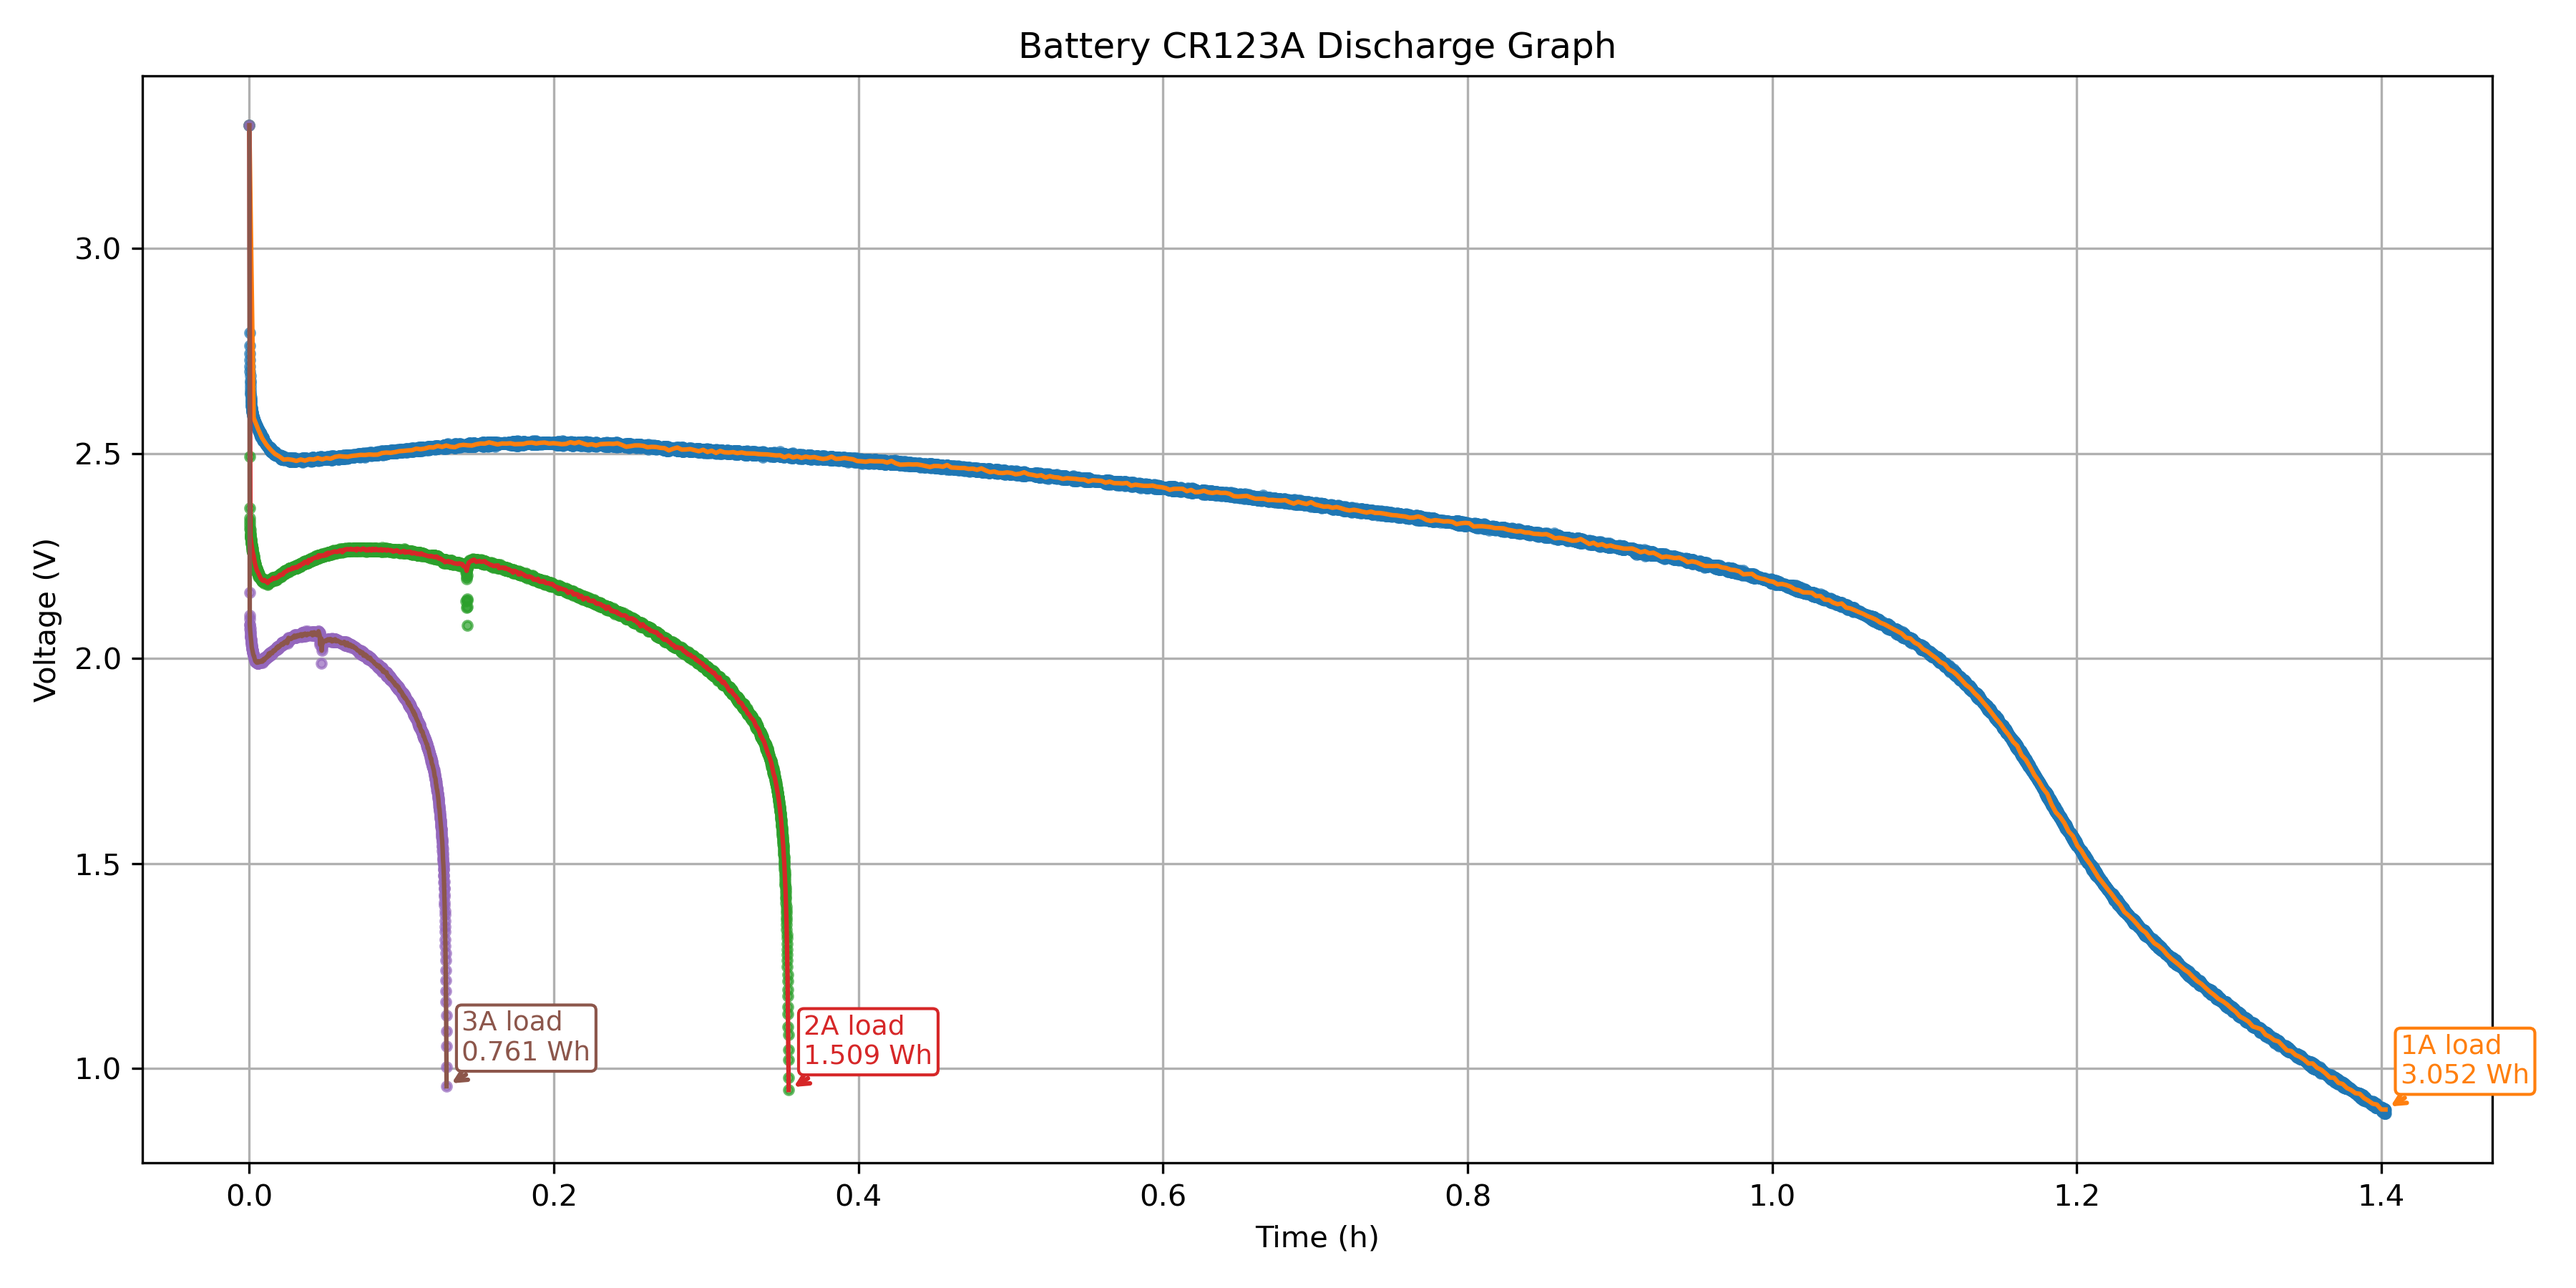
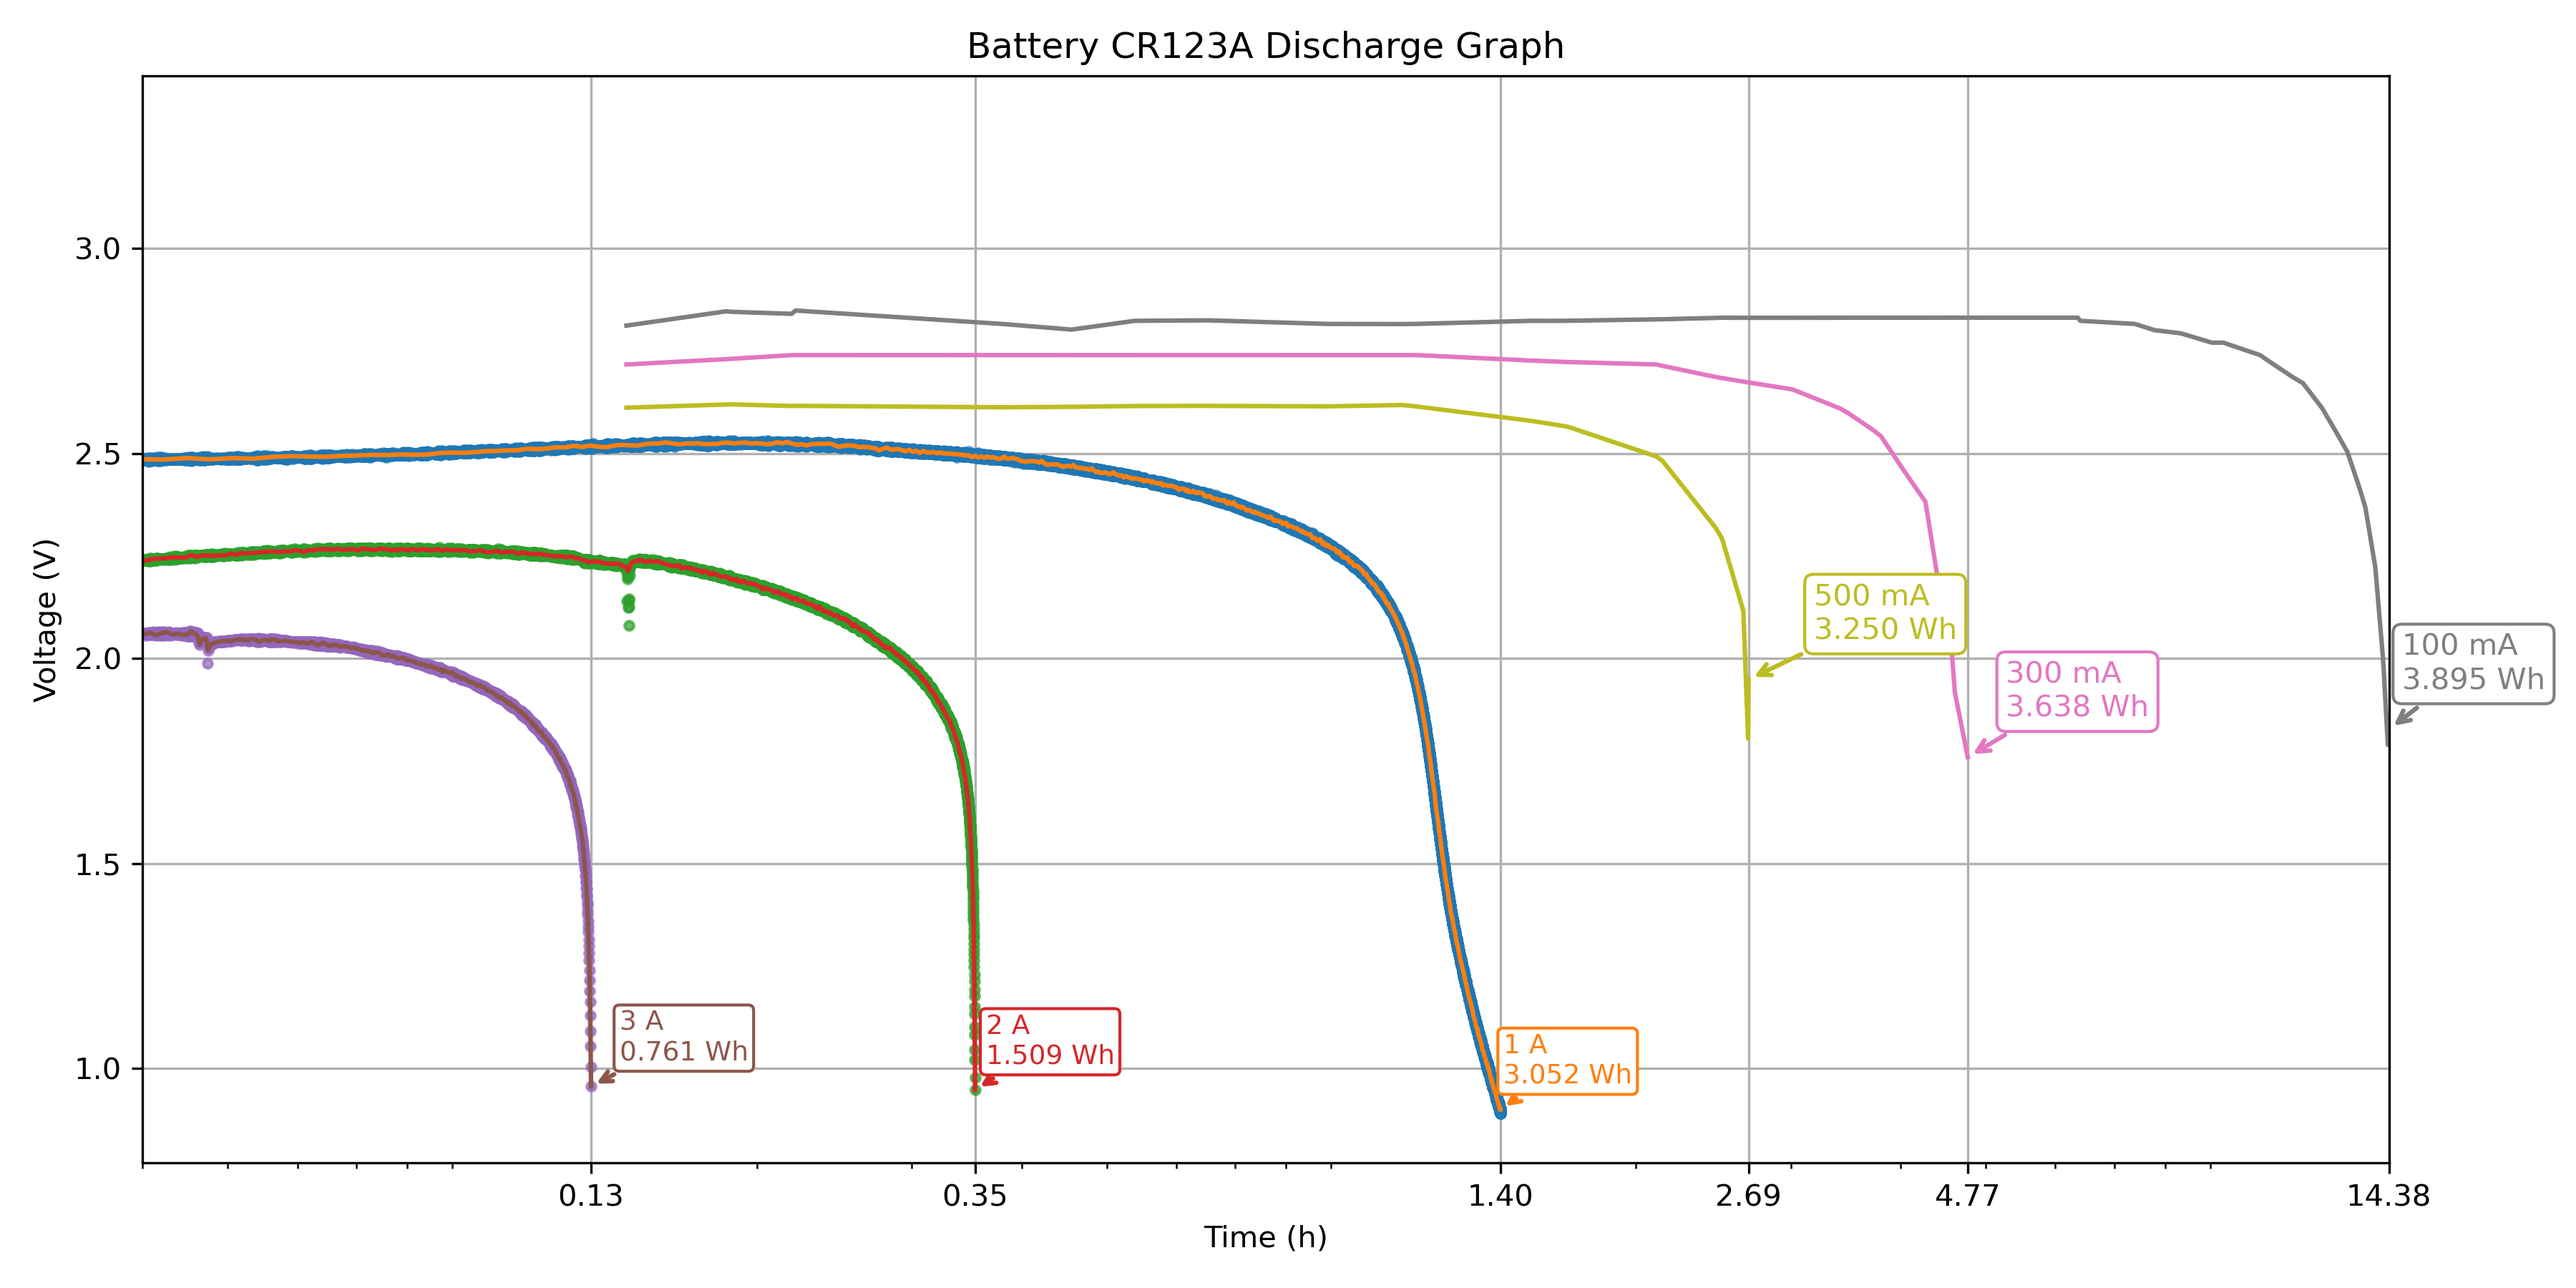
add org csv

diff --git a/view.py b/view.py
@@ -5,6 +5,8 @@ import numpy as np
 from scipy.interpolate import interp1d
 from scipy.integrate import simps
 import matplotlib.patches as mpatches
+import csv
+from matplotlib.ticker import FuncFormatter
 
 
 def read_data_from_file(file_path):
@@ -30,8 +32,16 @@ def calculate_energy_from_interpolation(time, voltage, current):
     voltage_integral = simps(voltage, time_seconds)
     return current * voltage_integral  # Joules
 
+def calculate_energy(voltage_list, time_list, current_a):
+    energy_wh = 0.0
+    for i in range(len(voltage_list) - 1):
+        u = voltage_list[i]
+        delta_t = time_list[i+1] - time_list[i]
+        energy_wh += u * current_a * delta_t  # Вт·ч
+    return energy_wh
 
-def plot_all_data(files_data, indices, energies, discharge_currents):
+
+def plot_all_data(files_data, indices, energies, discharge_currents, org_data_dict):
     """
     Plots data from multiple files on the same graph and annotates the energy values.
 
@@ -43,9 +53,11 @@ def plot_all_data(files_data, indices, energies, discharge_currents):
     """
     plt.figure(figsize=(12, 6))
     ax = plt.gca()
+    log_ticks = []
 
     for file_name, data in files_data.items():
         time = [i * 0.25 / 3600 for i in range(len(data))]  # Time in hours
+        log_ticks.append(time[-1])
 
         # Interpolation
         interp_func = interp1d(time, data, kind="cubic", fill_value="extrapolate")
@@ -59,7 +71,7 @@ def plot_all_data(files_data, indices, energies, discharge_currents):
         )
 
         energy_wh = energies[file_name]
-        
+
         # Plotting the original data
         ax.plot(time, data, ".", label=f"{file_name} (Original Data)", alpha=0.7)
 
@@ -74,7 +86,7 @@ def plot_all_data(files_data, indices, energies, discharge_currents):
         text_offset = 0.01  # along X (hours)
         vertical_offset = 0.05  # along Y (volts)
 
-        label = f"{discharge_current}A load\n{energy_wh:.3f} Wh"
+        label = f"{discharge_current} A\n{energy_wh:.3f} Wh"
         ax.annotate(
             label,
             xy=(x_text, y_text),
@@ -87,6 +99,44 @@ def plot_all_data(files_data, indices, energies, discharge_currents):
             horizontalalignment="left",
             verticalalignment="bottom",
         )
+
+    for label, data in org_data_dict.items():
+        current_a = float(label.split()[0]) / 1000   
+        energy = calculate_energy(data["voltage"], data["time"], current_a)
+        label = f"{label}\n{energy:.3f} Wh"
+        (line,) = ax.plot(data["time"], data["voltage"], label=label)
+        log_ticks.append(data["time"][-1])        
+
+        # Annotate the graph with a separate legend
+        x_text = data["time"][-1]  # Last time point
+        y_text = data["voltage"][-1]  # Last voltage point
+
+        # Add annotation with an arrow pointing to the graph
+        ax.annotate(
+            label,
+            xy=(x_text, y_text),
+            xytext=(x_text + 0.5, y_text + 0.1),  # Offset for the text
+            textcoords="data",
+            arrowprops=dict(arrowstyle="->", color=line.get_color(), lw=1.5),
+            fontsize=10,
+            color=line.get_color(),
+            bbox=dict(boxstyle="round,pad=0.3", fc="white", ec=line.get_color(), lw=1),
+        )
+
+    ax.set_xscale("log")
+ 
+    # Set custom ticks for the X-axis
+    log_ticks.sort()
+    ax.set_xticks(log_ticks)
+    ax.get_xaxis().set_major_formatter(FuncFormatter(lambda x, _: f"{x:.2f}"))
+
+    # Set X-axis limits to match the data range
+    # min_time = min(min(data["time"]) for data in org_data_dict.values())
+    min_time = 0.04  # Ensure left limit is >= 1e-3
+    max_time = max(max(data["time"]) for data in org_data_dict.values())
+    ax.set_xlim(
+        left=max(min_time, 1e-3), right=max_time
+    )  # Ensure left limit is >= 1e-3
 
     plt.title("Battery CR123A Discharge Graph")
     plt.xlabel("Time (h)")
@@ -226,7 +276,9 @@ def calculate_discharge_energy_integral(data, discharge_current, time_step=0.25)
     return energy
 
 
-def calculate_energy_from_interpolation(interpolated_time, interpolated_data, discharge_current):
+def calculate_energy_from_interpolation(
+    interpolated_time, interpolated_data, discharge_current
+):
     """
     Calculates the discharge energy of the battery using interpolated data.
 
@@ -250,6 +302,44 @@ if __name__ == "__main__":
     txt_files = [f for f in os.listdir(current_directory) if f.endswith(".txt")]
     x_max = 3.3  # Value to find and mark on the graph
     x_min = 0.9  # Value to find and mark on the graph
+
+    # Path to the CSV file
+    filename = "CR123A.csv"
+
+    # Separate lists for each curve
+    t_300, v_300 = [], []
+    t_100, v_100 = [], []
+    t_500, v_500 = [], []
+
+    # Reading and filtering
+    with open(filename, newline="", encoding="utf-8") as csvfile:
+        reader = csv.reader(csvfile)
+        for row in reader:
+            try:
+                t = float(row[0].replace(",", "."))
+                v300 = float(row[1].replace(",", "."))
+                v100 = float(row[2].replace(",", "."))
+                v500 = float(row[3].replace(",", "."))
+
+                # Add to each graph independently if the value is valid
+                if v300 >= 0:
+                    t_300.append(t)
+                    v_300.append(v300)
+                if v100 >= 0:
+                    t_100.append(t)
+                    v_100.append(v100)
+                if v500 >= 0:
+                    t_500.append(t)
+                    v_500.append(v500)
+
+            except (ValueError, IndexError):
+                continue
+
+    org_data_dict = {
+        "300 mA": {"time": t_300, "voltage": v_300},
+        "100 mA": {"time": t_100, "voltage": v_100},
+        "500 mA": {"time": t_500, "voltage": v_500},
+    }
 
     if not txt_files:
         print("No .txt files found in the current directory.")
@@ -302,4 +392,6 @@ if __name__ == "__main__":
                 print(f"Error: File {file_name} contains invalid data.")
 
         if files_data:
-            plot_all_data(files_data, indices, energies, discharge_currents)
+            plot_all_data(
+                files_data, indices, energies, discharge_currents, org_data_dict
+            )

diff --git a/view_CR123A_org.py b/view_CR123A_org.py
@@ -1,0 +1,71 @@
+import csv
+import matplotlib.pyplot as plt
+
+# Path to the CSV file
+filename = "CR123A.csv"
+
+# Separate lists for each curve
+t_300, v_300 = [], []
+t_100, v_100 = [], []
+t_500, v_500 = [], []
+
+# Reading and filtering
+with open(filename, newline='', encoding='utf-8') as csvfile:
+    reader = csv.reader(csvfile)
+    for row in reader:
+        try:
+            t = float(row[0].replace(',', '.'))
+            v300 = float(row[1].replace(',', '.'))
+            v100 = float(row[2].replace(',', '.'))
+            v500 = float(row[3].replace(',', '.'))
+
+            # Add to each graph independently if the value is valid
+            if v300 >= 0:
+                t_300.append(t)
+                v_300.append(v300)
+            if v100 >= 0:
+                t_100.append(t)
+                v_100.append(v100)
+            if v500 >= 0:
+                t_500.append(t)
+                v_500.append(v500)
+
+        except (ValueError, IndexError):
+            continue
+
+# Organize data into a dictionary
+data_dict = {
+    "300 mA": {"time": t_300, "voltage": v_300},
+    "100 mA": {"time": t_100, "voltage": v_100},
+    "500 mA": {"time": t_500, "voltage": v_500},
+}
+
+# Plotting the graph using the dictionary
+plt.figure(figsize=(10, 6))
+ax = plt.gca()
+
+for label, data in data_dict.items():
+    line, = ax.plot(data["time"], data["voltage"], label=label)
+
+    # Annotate the graph with a separate legend
+    x_text = data["time"][-1]  # Last time point
+    y_text = data["voltage"][-1]  # Last voltage point
+
+    # Add annotation with an arrow pointing to the graph
+    ax.annotate(
+        label,
+        xy=(x_text, y_text),
+        xytext=(x_text + 0.5, y_text + 0.1),  # Offset for the text
+        textcoords="data",
+        arrowprops=dict(arrowstyle="->", color=line.get_color(), lw=1.5),
+        fontsize=10,
+        color=line.get_color(),
+        bbox=dict(boxstyle="round,pad=0.3", fc="white", ec=line.get_color(), lw=1),
+    )
+
+plt.xlabel('Time (hours)')
+plt.ylabel('Voltage (V)')
+plt.title('CR123A Battery Discharge')
+plt.grid(True)
+plt.tight_layout()
+plt.show()
